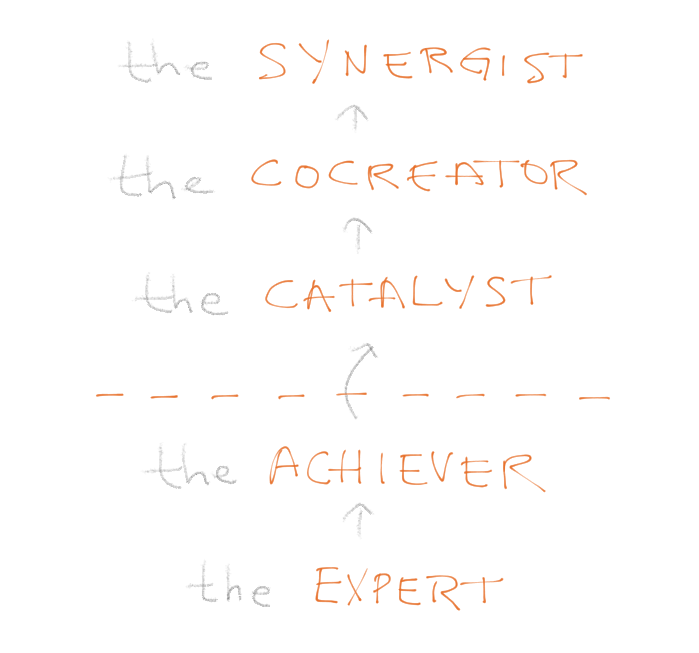
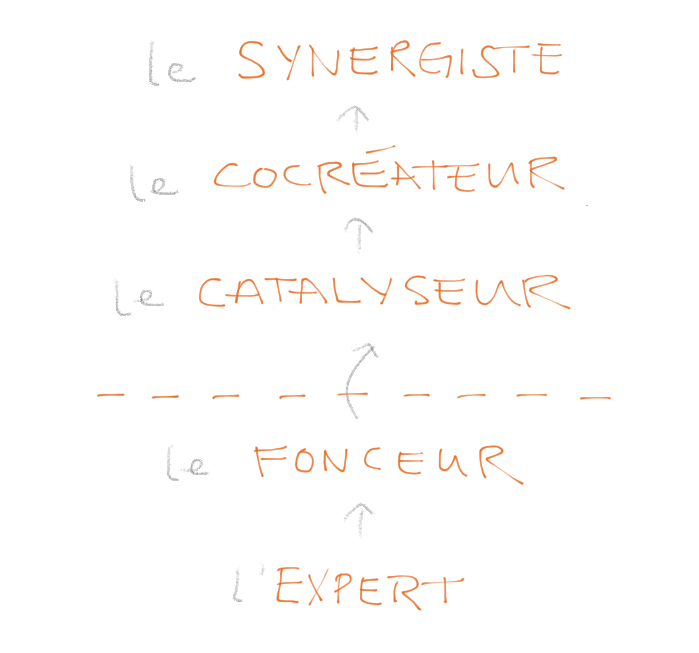
Ajouté la traduction de l'article Dieu, cocréateur - Ajouté la version modifiée de l'image énumérant les stages de maturité

diff --git a/_posts/2014-06-12-dieu-cocreateur.md b/_posts/2014-06-12-dieu-cocreateur.md
@@ -5,62 +5,62 @@ date: 2014-06-12 22:06pm
 alt_lang_path: /2014-06-god-cocreator/
 ---
 
-We'll never know for sure where God has touched the world. If he's better than the best among us, maybe all that hiding was the plan all along.
+Nous ne saurons jamais vraiment si Dieu a touché l'univers. S'il dépasse en maturité même les plus matures d'entre nous, c'était peut-être son intention, dès le début, de rester caché.
 
-## The creator you won't find
+## Le créateur introuvable
 
-We're finding out a lot of things about the beginnings of the universe. We're just about to map the workings of the brain. It's becoming quite hard to claim that God is necessary for the universe to be the way it is. Every day, we fill the gaps of our knowledge of life and physics, gaps where God used to be the occupant. No more.
+Nous découvrons actuellement bien des choses sur les débuts de l'univers. Bientôt, c'est le fonctionnement du cerveau humain qui sera cartographié. Il devient difficile de défendre que Dieu serait nécessaire pour expliquer quoi que ce soit dans l'univers. À tous les jours, nous comblons les trous de notre compréhension de la vie et de la physique, des trous où jadis Dieu seul était l'occupant. Plus maintenant.
 
-Claiming that God was the creator used to be pretty evident, mostly unquestionable. Now, it's getting clear that God isn't needed for anything about the universe. Certainly not its evolution, and not even its beginnings.
+Autrefois, c'était presque une évidence, incontestable même, de pointer vers Dieu pour le rôle du créateur. Actuellement, on s'aperçoit que Dieu ne serait requis pour rien dans les rouages du cosmos. Certainement pas son évolution, ni même ses débuts.
 
-We're left pondering why anyone would believe in God in the first place. What's the use? There's no ground to sustain the belief. There's no proof to be found.
+Nous voilà pris à nous demander pourquoi quelqu'un croirait en Dieu. Quelle en serait l'utilité? Il n'y aurait aucun fondement pour soutenir la croyance, aucune preuve raisonnable.
 
-And yet...
+Et pourtant...
 
 <!-- MORE -->
 
-## How greatness works
+## Le fonctionnement de l'excellence
 
-At the same time, we're finding out some things about how greatness works, too. In the past couple decades, researchers have polled some of the best among us to see what was so special about them.
+Au même instant dans l'histoire, nous découvrons des choses intéressantes sur l'excellence et ce qui nous y amène. Dans les dernières décennies, les chercheurs ont sondés certains des plus remarquables d'entre-nous afin de déceler ce qui les rendaient si spéciaux.
 
-These people are caring yet decisive, thoughtful yet performant, skillful yet trusting. They make others feel no limit about their personal growth yet they're fully in charge.
+Ces gens sont à la fois compatissant tout en étant délibéré, à la fois songé tout en étant performant, à la fois compétent tout en déléguant avec confiance. Par leur influence, ils font croire à ceux qui les entourent qu'ils n'ont aucune limite à leur croissance, et pourtant, ces leaders sont en plein contrôle de la situation.
 
-Balanced isn't the right word to describe them; these people aren't just a little good at a lot of things, they're very good at opposite things at the same time. They're living paradoxes. They know not to fall in the [trap of thinking in opposites][crisis], they find a way to [achieve opposing things][both].
+On pourrait dire qu'ils sont bien balancés, mais ce ne serait pas le bon qualificatif; ces gens ne sont pas juste un tout petit peu habile dans plusieurs domaines, ils sont très habiles dans des domaines opposés, en même temps. Des paradoxes ambulants, ni plus ni moins. Ils savent éviter le [piège de penser en oppositions][crise], ils trouvent des façons [d'accomplir des choses opposées][both].
 
-[crisis]: /2014-04-surviving-a-crisis-of-faith/
+[crise]: /2014-04-surviving-a-crisis-of-faith/
 [both]: /2012-10-both/
 
-They also don't get stuck on [pre-conceptions or conclusions][mental-models]; they find solutions where no one was looking. They're creative.
+Ils savent ne pas se laisser piéger par des [pré-conceptions ou par des conclusions][modeles-mentaux]; ils trouvent des solutions où personne ne regardaient. Ils sont créatifs.
 
-[mental-models]:/2014-01-intro-to-mental-models/
+[modeles-mentaux]: /2014-01-intro-to-mental-models/
 
-The best of the best have a lot to give to others. They're the best bosses to have, since they make you feel like you're the boss and get out of the way. They setup an environment where you achieve the group's goals and also come out a better person. They take care of the whole thing.
+Ceux qui se démarquent par leur excellence ont beaucoup à donner. Ils font les meilleurs superviseurs puisqu'ils vous font sentir comme c'est vous qui êtes le patron, et ensuite s'enlèvent du chemin. Ils installent un climat favorisant l'atteinte des objectifs du groupe et vous permettant de croître, en même temps, comme personne. Ils gèrent et font croître l'ensemble, le tout.
 
-## Getting to great
+## Se rendre à l'excellence
 
-In the book *[Leadership agility][leadership-agility]*, Bill Joiner [lists five stages of maturity][five-stages], describing the levels at which leaders operate. Here they are:
+Dans l'ouvrage *[Leadership agility][leadership-agility]*, Bill Joiner [énumère les cinq stages de maturité][cinq-stages], décrivant les niveaux dans lesquels les leaders opèrent. Les voici:
 
 [leadership-agility]:http://www.amazon.com/Leadership-Agility-Mastery-Anticipating-Initiating/dp/0787979139
-[five-stages]:http://www.amanet.org/training/articles/The-Five-Levels-of-Leadership-Agility.aspx
+[cinq-stages]:http://www.amanet.org/training/articles/The-Five-Levels-of-Leadership-Agility.aspx
 
-![The five stages of maturity: the Expert, the Achiever, a development ceiling, the Catalyst, the Cocreator, the Synergist]({{ site.base_url }}/d/2014/five-stages-of-maturity.png)
+![les cinq stages de maturité: l'Expert, le Fonceur, un plafond développemental, le Catalyseur, le Cocréateur, le Synergiste]({{ site.base_url }}/d/2014/five-stages-of-maturity.png)
 
-The top three levels are the ones that great leaders operate in. They've crossed an invisible barrier, a developmental *ceiling*, that forced them to shed their ego. Instead of achieving what their ego wants done, they achieve what needs to get done.
+Les trois niveaux supérieurs décrivent les stages dans lesquels opèrent nos plus excellents leaders. Ils ont franchis une cloison invisible, un *plafond* développemental, qui les ont contraints à délaisser leur égo. Au lieu d'accomplir ce que leur égo voudrait déployer, ils accomplissent ce qui doit être fait.
 
-They allow others to have room to achieve, they allow everyone to participate. They not only create — they also allow everyone to *cocreate*.
+Ils permettent aux autres d'avoir de l'espace pour leurs accomplissements, ils permettent à tous de participer. Ils ne font pas que créer — ils permettent à tous de *cocréer*.
 
-## The Cocreator[^synergist]
+## Le cocréateur [^synergiste]
 
-[^synergist]:The chart used Synergist as the highest stage of development. No doubt, I'd say God is the great synergist of all, the one that takes care of the whole and of every one. I just thought the term *cocreator* was the key takeaway, the main evolution on the term *creator*.
+[^synergiste]: Dans le diagramme, c'est le stage du Synergiste qui figurait comme le plus élevé. Sans aucun doute, j'avancerais que Dieu serait le plus grand des synergistes, celui qui prend soin de tous et du *tout*. Je pensais simplement que le terme *cocréateur* était le terme à retenir, l'évolution principale sur le terme *créateur*.
 
-As a seeker and a believer, this ladder of greatness points upward, and I recognize to whom it points. After understanding how these great people work, I started questioning my own ideas about God and started making new parallels.
+En tant que chercheur de Dieu et en tant que croyant, cette échelle de l'excellence pointe vers un sommet, et je reconnais vers qui elle pointe. Après avoir saisi le fonctionnement de ces figures modèles, j'ai commencé à questionner mes propres idées sur Dieu et j'ai tiré de nouveaux parallèles.
 
-Of course, God is not bound by ego, he's not interested in his own agenda nor is he expeditive. He couldn't be if he's more mature than the best of us.
+Bien entendu, Dieu ne serait pas épris d'un égo, il ne poursuivrait pas son propre agenda et n'agirait pas de façon expéditive. Il ne le pourrait pas s'il serait plus mature que les plus matures d'entre nous.
 
-It's no coincidence that God is so hidden, I think. Even though God's actions can't be measured, it becomes apparent to me that he couldn't make them measurable, not if he's interested in our freedom.
+Ce n'est pas par hasard que Dieu soit aussi caché, selon moi. Malgré qu'il nous est impossible de mesurer ses actions, il m'apparaît évident qu'il ne pourrait les rendre mesurables de toute façon, particulièrement s'il est intéressé à ce qu'on soit libre.
 
-I don't know that there's a creator of the universe (not as a fact anyway), but if he's more mature than all of us, being a creator would be too small a role. I bet he's been the *cocreator* of the universe, from the very start:
+Je ne peux prétendre savoir qu'il y ait un créateur à l'univers (en tout cas pas comme un fait), mais s'il est plus mature que chacun de nous, être un simple créateur serait un bien trop piètre rôle à lui conférer. Je paris qu'il a été le *cocréateur* de l'univers, dès le début:
 
-Matter organizes itself by itself. Organized matter becomes simple life. Simple life grows into organized life. Organized life becomes intelligent life. Intelligent life becomes spiritual. Spiritual matter seeks greatness. Spiritual matter understands that there is no proof of God, and yet chooses to believe, freely. Spiritual matter chooses to participate &mdash; to cocreate &mdash; in building the kingdom.
+La matière s'organise par elle-même. La matière organisée devient une forme simple de vie. La forme simple de vie se développe en organismes complexes. Les organismes complexes se développent en organismes intelligents. Les organismes intelligents développent une spiritualité. La matière spiritualisée recherche l'excellence et le dépassement. La matière spiritualisée admet qu'il n'existe aucune preuve pour Dieu, et pourtant choisit de croire, librement. La matière spiritualisée choisit de participer — de cocréer — à bâtir le Royaume.
 
-How majestic! What an act of trust!
+Quelle majesté! Quel marque de confiance!
